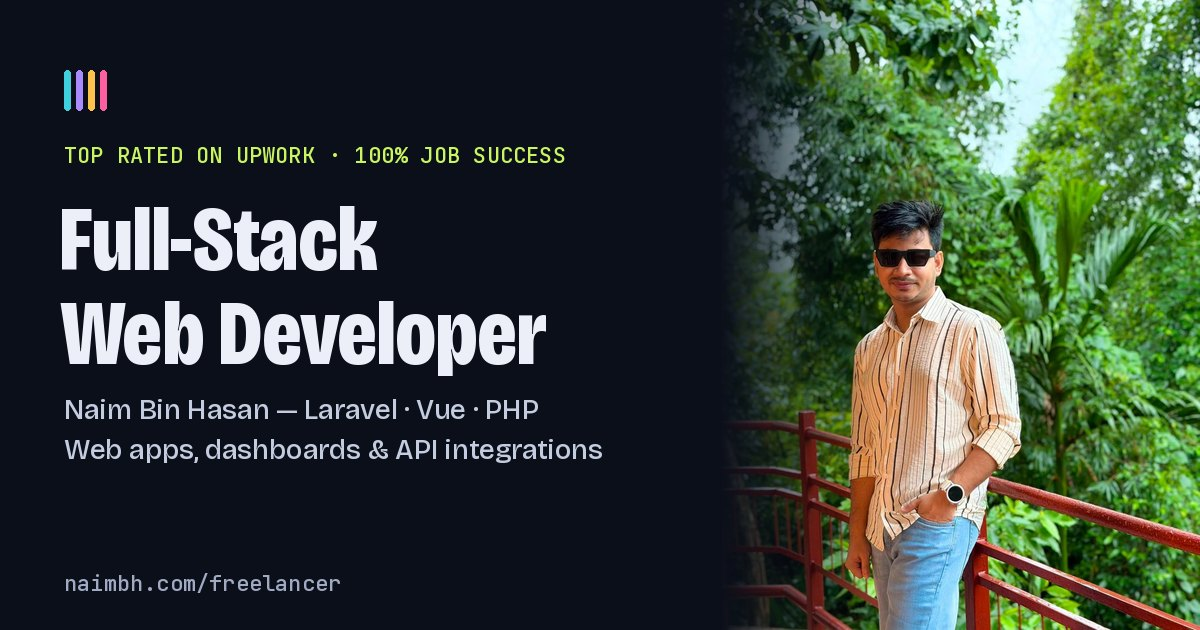
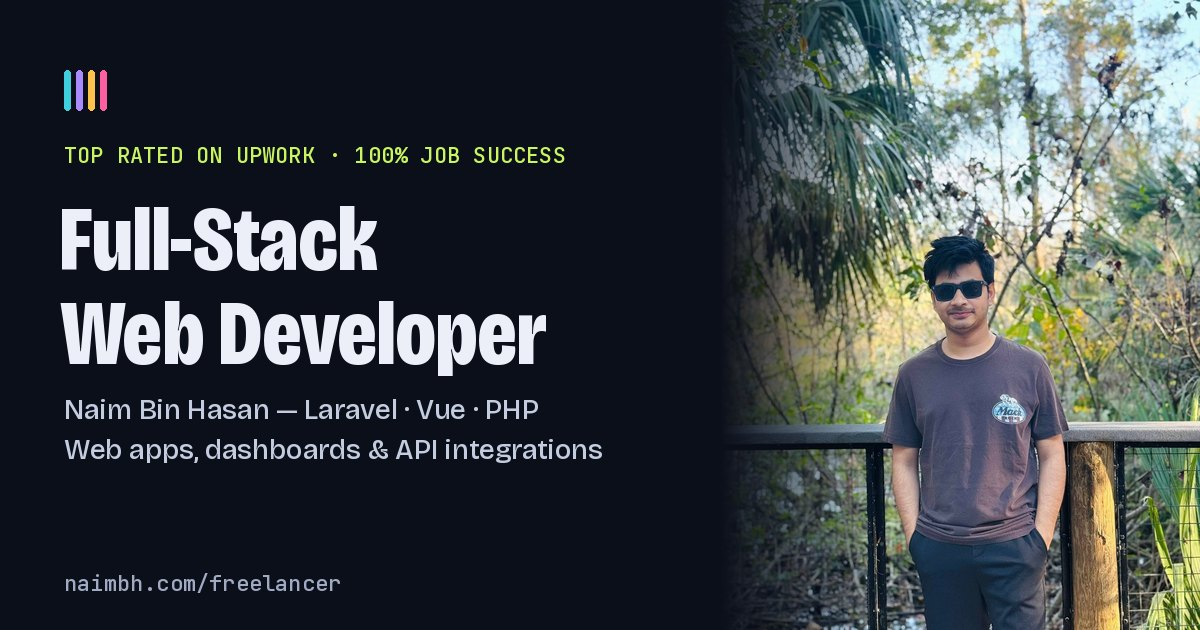
Dev site: experience moved up and rebuilt as org chain with education/certification lists; project pagination; uncropped project images; Florida photo; main applied-systems images uncropped

diff --git a/freelancer/index.html b/freelancer/index.html
@@ -483,17 +483,45 @@ a{ color:inherit; }
 @media(max-width:860px){ .vibe{ grid-template-columns:1fr; } .vibe ul{ grid-template-columns:repeat(3,1fr); } }
 @media(max-width:560px){ .vibe ul{ grid-template-columns:1fr; } .vibe{ padding:20px; border-radius:16px; } .vibe h2{ font-size:26px; } .vibe p:not(.kicker){ font-size:15.5px; } .vibe li{ padding:10px 14px; } .vibe li b{ font-size:17px; } }
 
-/* IBM CERTIFICATE */
-.ibm-card{ padding:22px; border-radius:18px; margin-bottom:16px; border:1px solid color-mix(in srgb,var(--cyan) 45%,transparent);
   background:linear-gradient(160deg,color-mix(in srgb,var(--cyan) 12%,var(--card)),var(--card) 70%); }
-.ibm-badge{ display:inline-block; font-family:var(--mono); font-size:11.5px; letter-spacing:.08em; text-transform:uppercase; color:var(--cyan); border:1px solid color-mix(in srgb,var(--cyan) 45%,transparent); padding:4px 10px; border-radius:99px; }
-.ibm-card h3{ font-size:22px; letter-spacing:-.02em; margin:12px 0 4px; }
-.ibm-meta{ font-family:var(--mono); font-size:13px; color:var(--ink-3); margin:0 0 10px; }
-.courses{ list-style:none; margin:0; padding:0; }
-.courses li{ display:flex; gap:10px; align-items:baseline; font-size:14.5px; line-height:1.4; color:var(--ink-2); padding:7px 0; border-top:1px solid var(--line-2); }
-.courses li b{ font-family:var(--mono); font-size:12px; font-weight:500; color:var(--cyan); flex:none; }
-.ibm-links{ display:flex; flex-wrap:wrap; gap:8px 16px; margin-top:12px; }
-.ibm-links a{ font-family:var(--mono); font-size:13px; color:var(--cyan); text-decoration:none; border-bottom:1px solid color-mix(in srgb,var(--cyan) 40%,transparent); }
+
+/* EXPERIENCE — organization chain + side lists */
+.exp{ display:grid; grid-template-columns:1.25fr .75fr; gap:clamp(24px,4vw,56px); align-items:start; }
+@media(max-width:900px){ .exp{ grid-template-columns:1fr; } }
+.xorg{ padding:18px 0 4px; border-top:1px solid var(--line-2); }
+.xorg header{ display:flex; flex-wrap:wrap; justify-content:space-between; align-items:baseline; gap:4px 14px; margin-bottom:12px; }
+.xo{ margin:0; font-weight:700; font-size:clamp(18px,1.9vw,21px); letter-spacing:-.02em; color:var(--violet); }
+.xo span:not(.su){ font-weight:400; font-size:.74em; color:var(--ink-3); margin-left:6px; letter-spacing:0; }
+.xy{ font-family:var(--mono); font-size:12.5px; color:var(--ink-3); white-space:nowrap; }
+.xorg ol{ list-style:none; margin:0; padding:0 0 0 26px; position:relative; }
+.xorg ol::before{ content:''; position:absolute; left:7px; top:10px; bottom:18px; width:2px; border-radius:2px; background:linear-gradient(color-mix(in srgb,var(--ink-3) 55%,transparent),transparent); }
+.xorg ol > li{ position:relative; padding-bottom:14px; }
+.xorg ol > li::before{ content:''; position:absolute; left:-26px; top:5px; width:16px; height:16px; border-radius:50%; background:var(--c); box-shadow:0 0 0 4px var(--bg); }
+.xorg h3{ font-size:clamp(18px,1.8vw,21px); letter-spacing:-.02em; margin:0 0 8px; line-height:1.25; }
+.pills{ list-style:none; padding:0; margin:0 0 8px; display:flex; flex-wrap:wrap; gap:6px; }
+.pills li{ font-family:var(--mono); font-size:12px; color:var(--ink-2); padding:4px 10px; border-radius:99px; border:1px solid var(--line); background:var(--tint); }
+.pills li.hi{ color:var(--lime); border-color:color-mix(in srgb,var(--lime) 45%,transparent); background:color-mix(in srgb,var(--lime) 10%,transparent); }
+.xorg p:not(.xo){ margin:0; color:var(--ink-2); font-size:16px; line-height:1.55; }
+.xside{ display:grid; gap:28px; }
+.xh{ font-family:var(--mono); font-size:13px; letter-spacing:.1em; text-transform:uppercase; color:var(--lime); font-weight:500; margin:0 0 10px; }
+.xh::before{ content:'// '; color:var(--ink-4); }
+.xlist ul{ list-style:none; margin:0; padding:0; border-top:1px solid var(--line-2); }
+.xlist li{ position:relative; padding:12px 4px 12px 14px; border-bottom:1px solid var(--line-2); }
+.xlist li::before{ content:''; position:absolute; left:0; top:15px; bottom:15px; width:3px; border-radius:3px; background:color-mix(in srgb,var(--cyan) 70%,transparent); }
+.xlist b{ display:block; font-size:16.5px; letter-spacing:-.01em; line-height:1.3; }
+.xlist li > span{ display:block; font-family:var(--mono); font-size:12.5px; color:var(--ink-3); margin-top:3px; }
+.xlist li p{ margin:6px 0 0; font-size:14px; line-height:1.5; color:var(--ink-2); }
+.xl{ display:flex; gap:14px; margin-top:6px; }
+.xl a{ font-family:var(--mono); font-size:12.5px; color:var(--cyan); text-decoration:none; border-bottom:1px solid color-mix(in srgb,var(--cyan) 40%,transparent); }
+@media(max-width:640px){ .xorg{ padding:14px 0 2px; } .xo{ font-size:17px; } .xo span:not(.su){ display:block; margin:2px 0 0; } .xorg ol{ padding-left:22px; } .xorg ol::before{ left:6px; } .xorg ol > li::before{ left:-22px; width:14px; height:14px; } .xorg h3{ font-size:17px; } .pills li{ font-size:11px; padding:3px 8px; } .xorg p:not(.xo){ font-size:15px; } .xlist b{ font-size:15.5px; } }
+
+/* PAGINATION */
+.pager{ display:flex; flex-wrap:wrap; justify-content:center; align-items:center; gap:8px; margin-top:26px; }
+.pager button{ font-family:var(--mono); font-size:13px; min-width:40px; height:40px; padding:0 12px; border-radius:12px; border:1px solid var(--line); background:var(--tint); color:var(--ink-2); cursor:pointer; transition:transform .2s var(--snap), background .2s, color .2s, border-color .2s; }
+.pager button:hover:not(:disabled){ transform:translateY(-2px); color:var(--ink); border-color:var(--ink-3); }
+.pager button[aria-current="page"]{ background:var(--lime-fill); color:var(--on-lime); border-color:var(--lime-fill); font-weight:700; }
+.pager button:disabled{ opacity:.35; cursor:default; }
+.pager .info{ width:100%; text-align:center; font-family:var(--mono); font-size:12px; color:var(--ink-3); margin-top:2px; }
 
 /* BUTTONS */
 .btn{
@@ -564,9 +592,6 @@ h1 .stk b{ color:var(--violet); font-weight:500; } h1 .stk u{ text-decoration:no
 .win-top .me img{ width:30px; height:30px; border-radius:50%; object-fit:cover; object-position:50% 20%; border:2px solid var(--lime); }
 .win-top .me b{ width:7px; height:7px; border-radius:50%; background:var(--lime); }
 @media(max-width:560px){ .win-top > span{ display:none; } }
-.portrait{ margin:0 0 18px; border-radius:20px; overflow:hidden; border:1px solid var(--line); aspect-ratio:4/5; max-width:360px; }
-.portrait img{ width:100%; height:100%; object-fit:cover; transition:transform .6s var(--ease); }
-.portrait:hover img{ transform:scale(1.04); }
 
 /* PROOF STRIP */
 .proof{ display:grid; grid-template-columns:repeat(5,1fr); border-block:1px solid var(--line-2); background:var(--line-2); gap:1px; margin-top:clamp(56px,7vw,90px); }
@@ -593,15 +618,16 @@ h1 .stk b{ color:var(--violet); font-weight:500; } h1 .stk u{ text-decoration:no
 .f-chip{ min-height:40px; font-family:var(--mono); font-size:13px; letter-spacing:.05em; text-transform:uppercase; padding:9px 15px; border-radius:99px; border:1px solid var(--line); background:transparent; color:var(--ink-2); cursor:pointer; transition:all .2s; }
 .f-chip:hover{ color:var(--ink); border-color:var(--ink-3); }
 .f-chip.on{ background:var(--lime-fill); color:var(--on-lime); border-color:var(--lime-fill); }
-.work{ display:grid; grid-template-columns:repeat(2,1fr); gap:18px; }
-@media(max-width:860px){ .work{ grid-template-columns:1fr; } }
+.work{ display:grid; grid-template-columns:repeat(3,1fr); gap:18px; }
+@media(max-width:1000px){ .work{ grid-template-columns:repeat(2,1fr); } }
+@media(max-width:640px){ .work{ grid-template-columns:1fr; } }
 .w-card{ display:flex; flex-direction:column; border-radius:20px; background:var(--card); border:1px solid var(--line-2); overflow:hidden; transition:transform .3s var(--snap), border-color .25s, opacity .3s; }
 .w-card:hover{ transform:translateY(-5px); border-color:color-mix(in srgb,var(--c) 45%,transparent); }
 .w-card[hidden]{ display:none; }
 .w-card.pop{ animation:pop .4s var(--snap) both; }
 @keyframes pop{ from{ opacity:0; transform:scale(.95); } }
 .shot{ margin:0; aspect-ratio:16/9; background:var(--card-2); border-bottom:1px solid var(--line-2); overflow:hidden; }
-.shot img{ width:100%; height:100%; object-fit:cover; transition:transform .6s var(--ease); }
+.shot img{ width:100%; height:100%; object-fit:contain; transition:transform .6s var(--ease); }
 .w-card:hover .shot img{ transform:scale(1.04); }
 .w-body .live{ display:inline-flex; margin-top:14px; font-family:var(--mono); font-size:13px; color:var(--c); text-decoration:none; border-bottom:1px solid color-mix(in srgb,var(--c) 40%,transparent); }
 .w-body .live:hover{ border-color:var(--c); }
@@ -650,19 +676,8 @@ h1 .stk b{ color:var(--violet); font-weight:500; } h1 .stk u{ text-decoration:no
 .step p{ color:var(--ink-2); font-size:16.5px; margin:0; }
 
 /* EXPERIENCE */
-.tl{ border-left:2px solid var(--line); margin-left:6px; }
-.tl-item{ position:relative; padding:0 0 34px 30px; }
-.tl-item::before{ content:''; position:absolute; left:-8px; top:6px; width:14px; height:14px; border-radius:50%; background:var(--bg); border:3px solid var(--c); }
-.tl-item .when{ font-family:var(--mono); font-size:13.5px; color:var(--ink-3); letter-spacing:.05em; }
-.tl-item h3{ font-size:clamp(20px,2.2vw,25px); letter-spacing:-.025em; margin:4px 0 4px; }
-.tl-item .org{ font-family:var(--mono); font-size:14px; color:var(--c); margin:0 0 8px; }
-.tl-item p{ color:var(--ink-2); font-size:17px; margin:0; max-width:70ch; }
 .exp{ display:grid; grid-template-columns:1.3fr .7fr; gap:clamp(28px,5vw,64px); }
 @media(max-width:900px){ .exp{ grid-template-columns:1fr; } }
-.cert{ display:block; padding:20px 22px; border-radius:16px; background:var(--card); border:1px solid var(--line-2); margin-bottom:12px; text-decoration:none; transition:transform .25s var(--snap), border-color .2s; }
-a.cert:hover{ transform:translateY(-3px); border-color:var(--lime); }
-.cert b{ display:block; font-size:18px; letter-spacing:-.015em; }
-.cert > span{ font-family:var(--mono); font-size:13px; line-height:1.5; display:block; margin-top:4px; color:var(--ink-3); }
 
 /* FAQ */
 .faq{ max-width:880px; }
@@ -734,7 +749,6 @@ footer{ padding:28px var(--pad) 36px; border-top:1px solid var(--line-2); }
   .f-chip{ font-size:11.5px; padding:7px 12px; min-height:36px; }
   .work{ gap:12px; }
   .w-card{ border-radius:16px; }
-  .shot{ aspect-ratio:16/8; }
   .w-body{ padding:16px 16px 18px; }
   .w-body h3{ font-size:19px; margin:6px 0 6px; }
   .w-body p{ font-size:14.5px; margin-bottom:12px; }
@@ -751,15 +765,7 @@ footer{ padding:28px var(--pad) 36px; border-top:1px solid var(--line-2); }
   .step{ padding:14px; border-radius:14px; }
   .step h3{ font-size:16.5px; margin:10px 0 4px; }
   .step p{ font-size:13.5px; }
-  .tl-item{ padding:0 0 22px 22px; }
-  .tl-item h3{ font-size:18.5px; }
-  .tl-item .org{ font-size:12.5px; margin-bottom:4px; }
-  .tl-item p{ font-size:14.5px; }
-  .portrait{ max-width:220px; margin-bottom:14px; }
-  .cert{ padding:14px 16px; margin-bottom:8px; border-radius:14px; }
-  .cert b{ font-size:16px; }
-  .cert > span{ font-size:12px; }
-  .faq summary{ font-size:16.5px; padding:14px 36px 14px 0; }
+                  .faq summary{ font-size:16.5px; padding:14px 36px 14px 0; }
   .faq details p{ font-size:15px; margin-bottom:16px; }
   .final h2{ font-size:clamp(36px,11vw,52px); }
   .c-links{ grid-template-columns:1fr 1fr; gap:10px; margin-top:24px; }
@@ -823,7 +829,7 @@ footer{ padding:28px var(--pad) 36px; border-top:1px solid var(--line-2); }
       </div>
 
       <div class="ide rv" style="--d:.15s">
-        <figure class="hero-shot"><img src="/freelancer/images/naim-bin-hasan-full-stack-web-developer-480.webp" srcset="/freelancer/images/naim-bin-hasan-full-stack-web-developer-480.webp 480w, /freelancer/images/naim-bin-hasan-full-stack-web-developer-800.webp 800w" sizes="300px" width="480" height="600" fetchpriority="high" decoding="async" alt="Naim Bin Hasan, freelance full-stack web developer, in a tea garden in Bangladesh"><figcaption>hi, I'm Naim 👋</figcaption></figure>
+        <figure class="hero-shot"><img src="/freelancer/images/naim-bin-hasan-full-stack-web-developer-480.webp" srcset="/freelancer/images/naim-bin-hasan-full-stack-web-developer-480.webp 480w, /freelancer/images/naim-bin-hasan-full-stack-web-developer-800.webp 800w" sizes="300px" width="480" height="600" fetchpriority="high" decoding="async" alt="Naim Bin Hasan, freelance full-stack web developer, on a nature trail in Florida"><figcaption>hi, I'm Naim 👋</figcaption></figure>
         <div class="win">
           <div class="win-top"><i></i><i></i><i></i><span>ProjectController.php</span><figure class="me"><b></b>naim · online<img src="/freelancer/images/naim-bin-hasan-full-stack-web-developer-480.webp" width="480" height="600" decoding="async" alt=""></figure></div>
 <pre class="code" id="code" aria-label="Code sample: a Laravel controller that ships a client project"><span class="l" style="--i:0"><span class="k">class</span> <span class="f">ProjectController</span> <span class="k">extends</span> Controller</span><span class="l" style="--i:1">{</span><span class="l" style="--i:2">  <span class="k">public function</span> <span class="f">ship</span>(<span class="f">Brief</span> <span class="v">$brief</span>)</span><span class="l" style="--i:3">  {</span><span class="l" style="--i:4">    <span class="v">$app</span> = <span class="f">Laravel</span>::<span class="f">build</span>(<span class="v">$brief</span>)</span><span class="l" style="--i:5">      -&gt;<span class="f">frontend</span>(<span class="s">'vue'</span>)</span><span class="l" style="--i:6">      -&gt;<span class="f">integrate</span>([<span class="s">'twilio'</span>, <span class="s">'whatsapp'</span>, <span class="s">'meta'</span>])</span><span class="l" style="--i:7">      -&gt;<span class="f">test</span>()-&gt;<span class="f">deploy</span>();</span><span class="l" style="--i:8"></span><span class="l" style="--i:9">    <span class="c">// 100% job success, 5.0 ★ reviews</span></span><span class="l" style="--i:10">    <span class="k">return</span> <span class="v">$app</span>-&gt;<span class="f">handover</span>(<span class="g">docs: true</span>);</span><span class="l" style="--i:11">  }</span><span class="l" style="--i:12">}<span class="caret"></span></span></pre>
@@ -838,6 +844,60 @@ footer{ padding:28px var(--pad) 36px; border-top:1px solid var(--line-2); }
     <div class="rv" style="--d:.1s"><b>5.0 ★</b><span>Average client rating</span></div>
     <div class="rv" style="--d:.15s"><b>100+</b><span>Projects delivered</span></div>
     <div class="rv" style="--d:.2s"><b>2019</b><span>Shipping since</span></div>
+  </div>
+</section>
+
+<!-- EXPERIENCE -->
+<section class="band" id="experience">
+  <div class="wrap">
+    <p class="kicker rv">experience</p>
+    <h2 class="rv" style="--d:.04s">Where I've built</h2>
+    <div class="exp">
+      <div class="xchain">
+        <section class="xorg rv">
+          <header><p class="xo"><span class="su">Syracuse University</span> <span>School of Information Studies</span></p><span class="xy">Fall 2026 — Present</span></header>
+          <ol>
+            <li style="--c:var(--violet)"><h3>Research Software &amp; Web Tools</h3><ul class="pills"><li>Fall 2026 — Present</li><li>Gravity Spy / LIGO</li></ul><p>Interactive web tools and AI-supported learning resources for a citizen-science project, alongside a PhD in Information Science &amp; Technology.</p></li>
+          </ol>
+        </section>
+        <section class="xorg rv">
+          <header><p class="xo">Zilberman Insurance <span>Remote</span></p><span class="xy">Sep 2020 — Jan 2023</span></header>
+          <ol>
+            <li style="--c:var(--lime)"><h3>Full-Stack Developer</h3><ul class="pills"><li>Laravel · Vue.js · MySQL</li><li>Twilio · Meta APIs</li></ul><p>Built and ran the apps that automated the company's daily operations, including real-time chat, calling and dashboards.</p></li>
+          </ol>
+        </section>
+        <section class="xorg rv">
+          <header><p class="xo">Upwork &amp; Fiverr <span>Remote</span></p><span class="xy">2019 — 2023</span></header>
+          <ol>
+            <li style="--c:var(--cyan)"><h3>Freelance Full-Stack Developer</h3><ul class="pills"><li class="hi">Top Rated</li><li class="hi">100% Job Success</li><li>100+ projects</li></ul><p>Web apps, dashboards, CMSs and e-commerce builds in PHP, Laravel, Vue.js and WordPress, with five-star reviews.</p></li>
+          </ol>
+        </section>
+        <section class="xorg rv">
+          <header><p class="xo">AmaderKantho24 <span>Dhaka · Part-time</span></p><span class="xy">Jun 2019 — Jan 2020</span></header>
+          <ol>
+            <li style="--c:var(--pink)"><h3>Lead Web Developer</h3><ul class="pills"><li>PHP · MySQL</li></ul><p>Maintained and supervised the full web application for an online news portal.</p></li>
+          </ol>
+        </section>
+      </div>
+      <aside class="xside">
+        <div class="xlist rv">
+          <h3 class="xh">Education</h3>
+          <ul>
+            <li><b>PhD, Information Science &amp; Technology</b><span><span class="su">Syracuse University</span> · 2026 — present</span></li>
+            <li><b>MA, Sociology</b><span>Florida Atlantic University · 2024 — 2026</span></li>
+            <li><b>MSS &amp; BSS (Honours), Sociology</b><span>University of Dhaka · 2017 — 2024</span></li>
+            <li><b>Professional Certificate, Full Stack Software Development</b><span>IBM via Coursera · May 2024 · 12 courses</span><p>Cloud · HTML, CSS &amp; JavaScript · Git · React · Node.js &amp; Express · Python · Flask · Django &amp; SQL · Docker, Kubernetes &amp; OpenShift · Microservices &amp; Serverless · Capstone</p><span class="xl"><a href="https://coursera.org/verify/professional-cert/5PAP4F43J5ZP" target="_blank" rel="noopener">Verify ↗</a><a href="/freelancer/certificates/naim-bin-hasan-ibm-full-stack-software-developer-certificate.pdf" target="_blank" rel="noopener">Certificate PDF ↗</a></span></li>
+          </ul>
+        </div>
+        <div class="xlist rv" style="--d:.06s">
+          <h3 class="xh">Certifications</h3>
+          <ul>
+            <li><b>Introduction to Cyber Security</b><span>Simplilearn · Dec 2022 · ID 4055257</span></li>
+            <li><b>IELTS — English Proficiency</b><span>Verified by Upwork · native or bilingual English</span></li>
+          </ul>
+        </div>
+      </aside>
+    </div>
   </div>
 </section>
 
@@ -945,6 +1005,8 @@ footer{ padding:28px var(--pad) 36px; border-top:1px solid var(--line-2); }
       </article>
     </div>
 
+    <nav class="pager" id="pager" aria-label="Project pages"></nav>
+
     <div class="more-work rv">
       <h3>More builds</h3>
       <ul><li><b>Social-media-style forum</b><span>Laravel · third-party APIs · delivered with Trello sprints</span></li><li><b>Task tracker &amp; outliner with shortcuts</b><span>Vue.js SPA · Laravel API · live charts</span></li><li><b>Payroll management customization</b><span>Laravel · reports · five-star review</span></li><li><b>News aggregation &amp; scraping app</b><span>PHP · cron · DOM parsing</span></li><li><b>Collaborative knowledge portal</b><span>Laravel · Vue · role-based access</span></li><li><b>AmaderKantho24 news portal</b><span>Lead web developer · PHP · MySQL</span></li></ul>
@@ -995,37 +1057,6 @@ footer{ padding:28px var(--pad) 36px; border-top:1px solid var(--line-2); }
       <div class="step rv" style="--d:.05s"><h3>Scope &amp; quote</h3><p>A written scope with fixed-price milestones or an hourly estimate — your choice.</p></div>
       <div class="step rv" style="--d:.1s"><h3>Build in milestones</h3><p>Working previews you can click through, with updates as each piece lands.</p></div>
       <div class="step rv" style="--d:.15s"><h3>Launch &amp; handover</h3><p>Deployment, documentation and support so your team can run with it.</p></div>
-    </div>
-  </div>
-</section>
-
-<!-- EXPERIENCE -->
-<section class="band" id="experience">
-  <div class="wrap">
-    <p class="kicker rv">experience</p>
-    <h2 class="rv" style="--d:.04s">Where I've built</h2>
-    <div class="exp">
-      <div class="tl">
-        <div class="tl-item rv" style="--c:var(--violet)"><span class="when">2026 — present</span><h3>Research Software &amp; Web Tools</h3><p class="org"><span class="su">Syracuse University</span> · Gravity Spy / LIGO</p><p>Design interactive web tools and AI-supported learning resources for a citizen-science project, alongside a PhD in Information Science &amp; Technology.</p></div>
-        <div class="tl-item rv" style="--c:var(--lime)"><span class="when">Sep 2020 — Jan 2023</span><h3>Full-Stack Developer (Remote)</h3><p class="org">Zilberman Insurance</p><p>Built and ran the apps that automated the company's daily operations — Laravel, PHP, Vue.js, MySQL, and Twilio and Meta APIs for real-time chat and calling.</p></div>
-        <div class="tl-item rv" style="--c:var(--cyan)"><span class="when">2019 — 2023</span><h3>Freelance Full-Stack Developer</h3><p class="org">Upwork · Fiverr</p><p>100+ projects in PHP, Laravel, Vue.js and WordPress. Top Rated on Upwork with 100% Job Success and five-star reviews.</p></div>
-        <div class="tl-item rv" style="--c:var(--pink)"><span class="when">Jun 2019 — Jan 2020</span><h3>Lead Web Developer (Part-time)</h3><p class="org">AmaderKantho24</p><p>Maintained and supervised the full web application for an online news portal.</p></div>
-      </div>
-      <div>
-        <div class="ibm-card rv">
-          <span class="ibm-badge">Education · Professional certificate</span>
-          <h3>IBM Full Stack Software Developer</h3>
-          <p class="ibm-meta">IBM via Coursera · Completed May 2024 · 12 courses</p>
-          <ol class="courses"><li><b>01</b>Introduction to Cloud Computing</li><li><b>02</b>Introduction to Web Development with HTML, CSS, JavaScript</li><li><b>03</b>Getting Started with Git and GitHub</li><li><b>04</b>Developing Front-End Apps with React</li><li><b>05</b>Developing Back-End Apps with Node.js and Express</li><li><b>06</b>Python for Data Science, AI &amp; Development</li><li><b>07</b>Developing AI Applications with Python and Flask</li><li><b>08</b>Django Application Development with SQL and Databases</li><li><b>09</b>Introduction to Containers w/ Docker, Kubernetes &amp; OpenShift</li><li><b>10</b>Application Development using Microservices and Serverless</li><li><b>11</b>Full Stack Application Development Capstone Project</li><li><b>12</b>Full Stack Software Developer Assessment</li></ol>
-          <div class="ibm-links"><a href="https://coursera.org/verify/professional-cert/5PAP4F43J5ZP" target="_blank" rel="noopener">Verify on Coursera ↗</a><a href="/freelancer/certificates/naim-bin-hasan-ibm-full-stack-software-developer-certificate.pdf" target="_blank" rel="noopener">Certificate PDF ↗</a></div>
-        </div>
-        <figure class="portrait rv"><img src="/freelancer/images/naim-bin-hasan-full-stack-web-developer-800.webp" srcset="/freelancer/images/naim-bin-hasan-full-stack-web-developer-480.webp 480w, /freelancer/images/naim-bin-hasan-full-stack-web-developer-800.webp 800w" sizes="(max-width:900px) 90vw, 360px" width="800" height="1000" loading="lazy" decoding="async" alt="Naim Bin Hasan, freelance full-stack web developer, in a tea garden in Bangladesh"></figure>
-        <p class="kicker rv">certifications</p>
-
-        <div class="cert rv" style="--d:.05s"><b>Introduction to Cyber Security</b><span>Simplilearn · Dec 2022 · ID 4055257</span></div>
-        <div class="cert rv" style="--d:.1s"><b>IELTS — English Proficiency</b><span>Verified by Upwork · English: native or bilingual</span></div>
-        <div class="cert rv" style="--d:.15s"><b>Education</b><span>PhD student, <span class="su">Syracuse University</span> · MA, Florida Atlantic University · BSS, University of Dhaka</span></div>
-      </div>
     </div>
   </div>
 </section>
@@ -1127,19 +1158,39 @@ footer{ padding:28px var(--pad) 36px; border-top:1px solid var(--line-2); }
   }, {rootMargin:'0px 0px -4% 0px', threshold:0});
   $$('.rv').forEach(function(el){ io.observe(el); });
 
-  var chips = $$('.f-chip'), cards = $$('#workGrid .w-card');
+  var chips = $$('.f-chip'), cards = $$('#workGrid .w-card'), pager = $('#pager'), PER = 6, filter = 'all', page = 1;
+  function matches(card){ return filter === 'all' || card.dataset.f.split(' ').indexOf(filter) > -1; }
+  function render(scroll){
+    var list = cards.filter(matches), pages = Math.max(1, Math.ceil(list.length / PER));
+    if(page > pages) page = pages;
+    cards.forEach(function(c){ c.hidden = true; c.classList.remove('pop'); });
+    list.slice((page - 1) * PER, page * PER).forEach(function(c, i){
+      c.hidden = false; c.classList.add('in');
+      if(!reduce){ void c.offsetWidth; c.style.animationDelay = (i * 0.04) + 's'; c.classList.add('pop'); }
+    });
+    var h = '';
+    if(pages > 1){
+      h += '<button type="button" data-p="' + (page - 1) + '"' + (page === 1 ? ' disabled' : '') + ' aria-label="Previous page">←</button>';
+      for(var p = 1; p <= pages; p++) h += '<button type="button" data-p="' + p + '"' + (p === page ? ' aria-current="page"' : '') + '>' + p + '</button>';
+      h += '<button type="button" data-p="' + (page + 1) + '"' + (page === pages ? ' disabled' : '') + ' aria-label="Next page">→</button>';
+    }
+    var from = (page - 1) * PER + 1, to = Math.min(page * PER, list.length);
+    h += '<span class="info">Showing ' + from + '–' + to + ' of ' + list.length + ' projects</span>';
+    pager.innerHTML = h;
+    if(scroll) document.getElementById('work').scrollIntoView({ behavior: reduce ? 'auto' : 'smooth', block: 'start' });
+  }
+  pager.addEventListener('click', function(e){
+    var b = e.target.closest('button'); if(!b || b.disabled) return;
+    page = parseInt(b.dataset.p, 10); render(true);
+  });
   chips.forEach(function(chip){
     chip.addEventListener('click', function(){
-      var f = chip.dataset.f;
+      filter = chip.dataset.f; page = 1;
       chips.forEach(function(c){ var on = c === chip; c.classList.toggle('on', on); c.setAttribute('aria-pressed', String(on)); });
-      cards.forEach(function(card, i){
-        var show = f === 'all' || card.dataset.f.split(' ').indexOf(f) > -1;
-        card.hidden = !show;
-        card.classList.remove('pop');
-        if(show && !reduce){ void card.offsetWidth; card.style.animationDelay = (i % 4) * 0.04 + 's'; card.classList.add('pop'); }
-      });
+      render(false);
     });
   });
+  render(false);
 })();
 </script>
 <script>

diff --git a/index.html b/index.html
@@ -1387,7 +1387,7 @@ h1 .ln:last-child > span{
 @media(max-width:600px){ .pjgrid{ grid-template-columns:1fr; gap:12px; } }
 .pj{ display:flex; flex-direction:column; border-radius:18px; overflow:hidden; border:1px solid var(--line-2); background:linear-gradient(160deg,var(--surface),var(--surface-2)); transition:transform .3s var(--snap), border-color .25s, box-shadow .3s; }
 .pj:hover{ transform:translateY(-4px); border-color:color-mix(in srgb,var(--c) 45%,transparent); box-shadow:var(--shadow); }
-.pj img{ width:100%; aspect-ratio:16/9; object-fit:cover; border-bottom:1px solid var(--line-2); transition:transform .5s var(--ease); }
+.pj img{ width:100%; height:auto; aspect-ratio:16/9; object-fit:contain; background:#0A0E17; border-bottom:1px solid var(--line-2); transition:transform .5s var(--ease); }
 .pj:hover img{ transform:scale(1.03); }
 .pj-b{ padding:16px 18px 18px; display:flex; flex-direction:column; flex:1; }
 .pj-tag{ font-family:var(--mono); font-size:11.5px; letter-spacing:.1em; text-transform:uppercase; color:var(--c); }
@@ -1395,7 +1395,7 @@ h1 .ln:last-child > span{
 .pj p{ font-size:15.5px; line-height:1.5; color:var(--txt-2); margin:0 0 12px; }
 .pj .stack{ margin-top:auto; }
 .pj-live{ align-self:flex-start; display:inline-block; margin-top:10px; font-family:var(--mono); font-size:12.5px; color:var(--c); text-decoration:none; border-bottom:1px solid color-mix(in srgb,var(--c) 40%,transparent); }
-@media(max-width:600px){ .pj img{ aspect-ratio:16/8; } .pj-b{ padding:12px 14px 14px; } .pj h3{ font-size:17px; } .pj p{ font-size:14.5px; margin-bottom:10px; } }
+@media(max-width:600px){ .pj img{ aspect-ratio:16/9; } .pj-b{ padding:12px 14px 14px; } .pj h3{ font-size:17px; } .pj p{ font-size:14.5px; margin-bottom:10px; } }
 
 /* ============================================================ RESEARCH AGENDA */
 .agenda{ display:grid; grid-template-columns:repeat(2,1fr); gap:14px; }

diff --git a/sw.js b/sw.js
@@ -1,5 +1,5 @@
 /* NaimBH.com service worker — fast repeat visits + offline support */
-const VERSION = 'naimbh-v8';
+const VERSION = 'naimbh-v9';
 const SHELL = [
   '/', '/freelancer/', '/offline.html', '/site.webmanifest',
   '/favicon.svg', '/favicon.ico', '/icon-192.png', '/icon-512.png', '/logo.svg',
